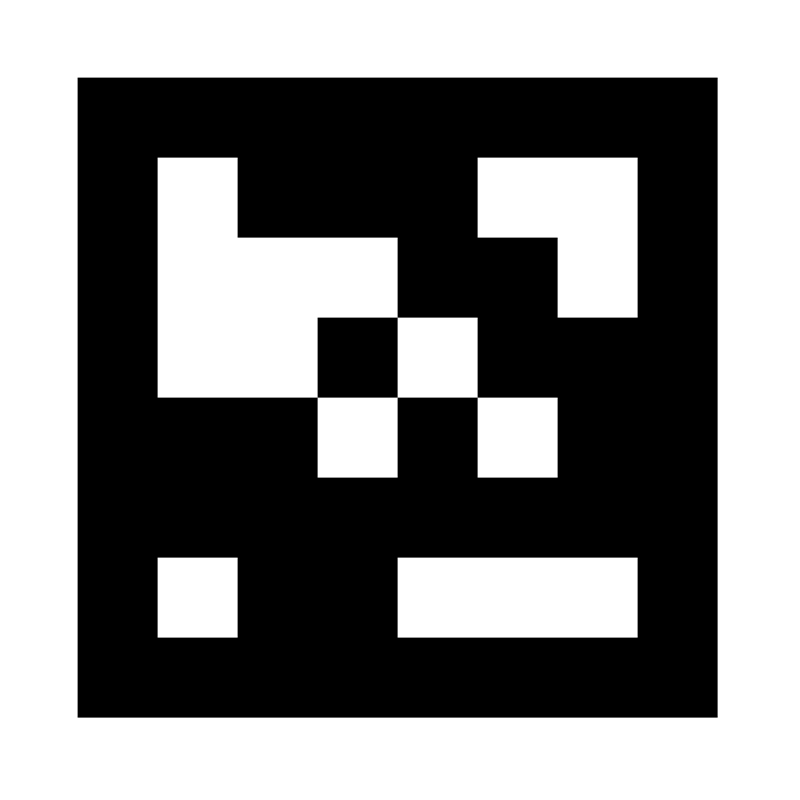
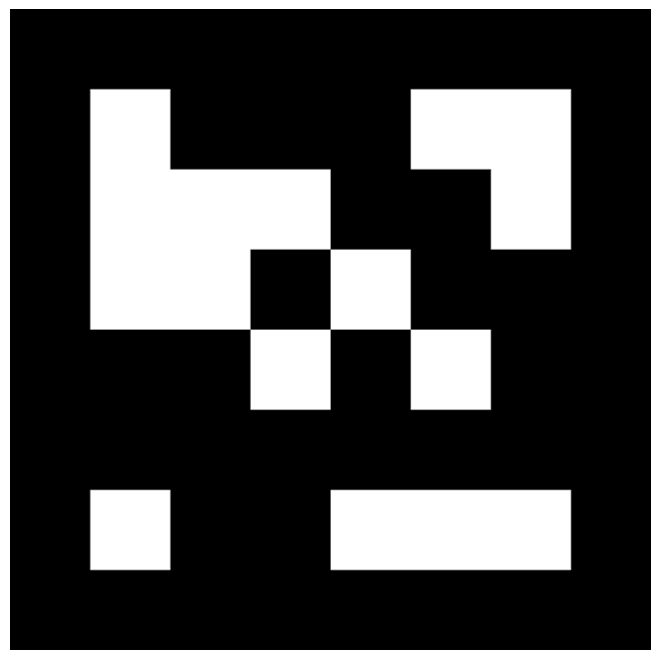
changed calibration image border

diff --git a/src/testApp.cpp b/src/testApp.cpp
@@ -325,7 +325,7 @@ void testApp::draw() {
         }
 
         if (cursorOn) {
-            ofRect(100, 100, 100, 200);
+            ofRect(100, 100, 20, 40);
         }
 
         //contours.draw();
